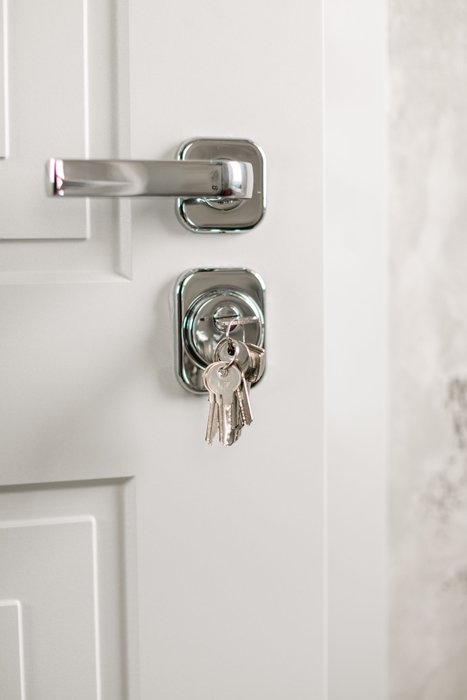
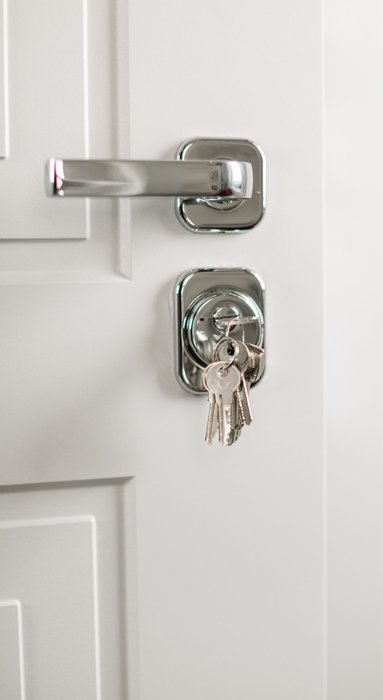
Keyway contact: crop the marble wall off the right edge of the when-you-call photo
Claude-Session: https://claude.ai/code/session_01CdqyA6YAt133fUagzp5bq1

diff --git a/portfolio/keyway-locksmith/contact.html b/portfolio/keyway-locksmith/contact.html
@@ -65,7 +65,7 @@
 
   <section class="section section--alt" id="when-you-call">
     <div class="container split-2 split-2--top">
-      <figure class="media media--tall media--tint" style="margin:0;"><img src="assets/web/photo-11-silver-handle-white-door.jpg" alt="A modern silver lever handle on a white door, keys hanging from the lock beneath it." width="1333" height="2000" loading="lazy" decoding="async" style="object-position: 50% 40%;"></figure>
+      <figure class="media media--tall media--tint" style="margin:0;"><img src="assets/web/photo-11-silver-handle-white-door.jpg" alt="A modern silver lever handle on a white door, keys hanging from the lock beneath it." width="1095" height="2000" loading="lazy" decoding="async" style="object-position: 50% 40%;"></figure>
       <div>
         <p class="eyebrow">When you call</p>
         <h2>Four things that get me to you faster.</h2>
